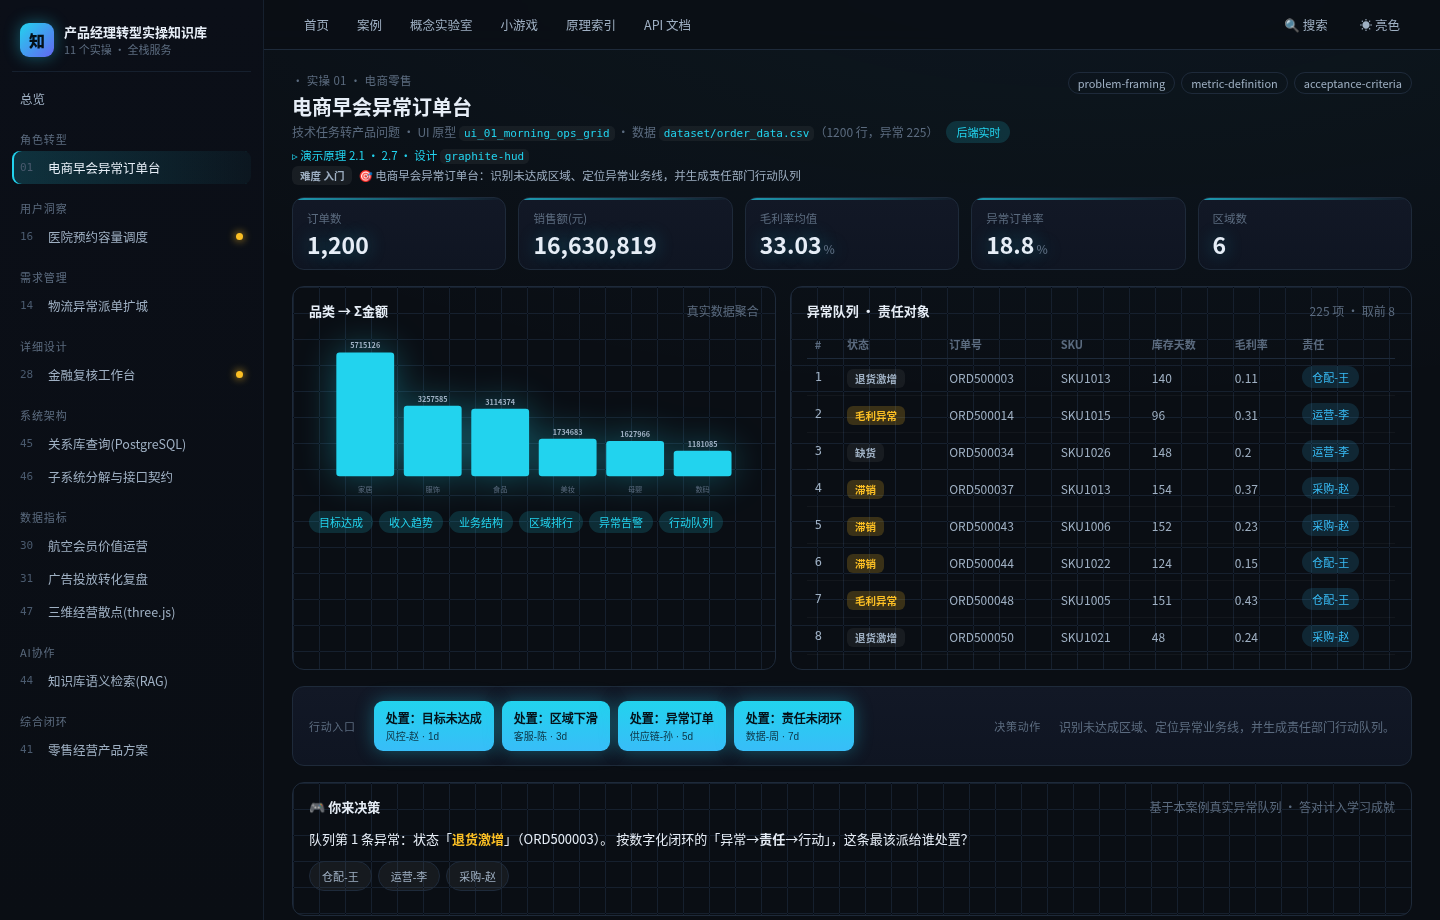
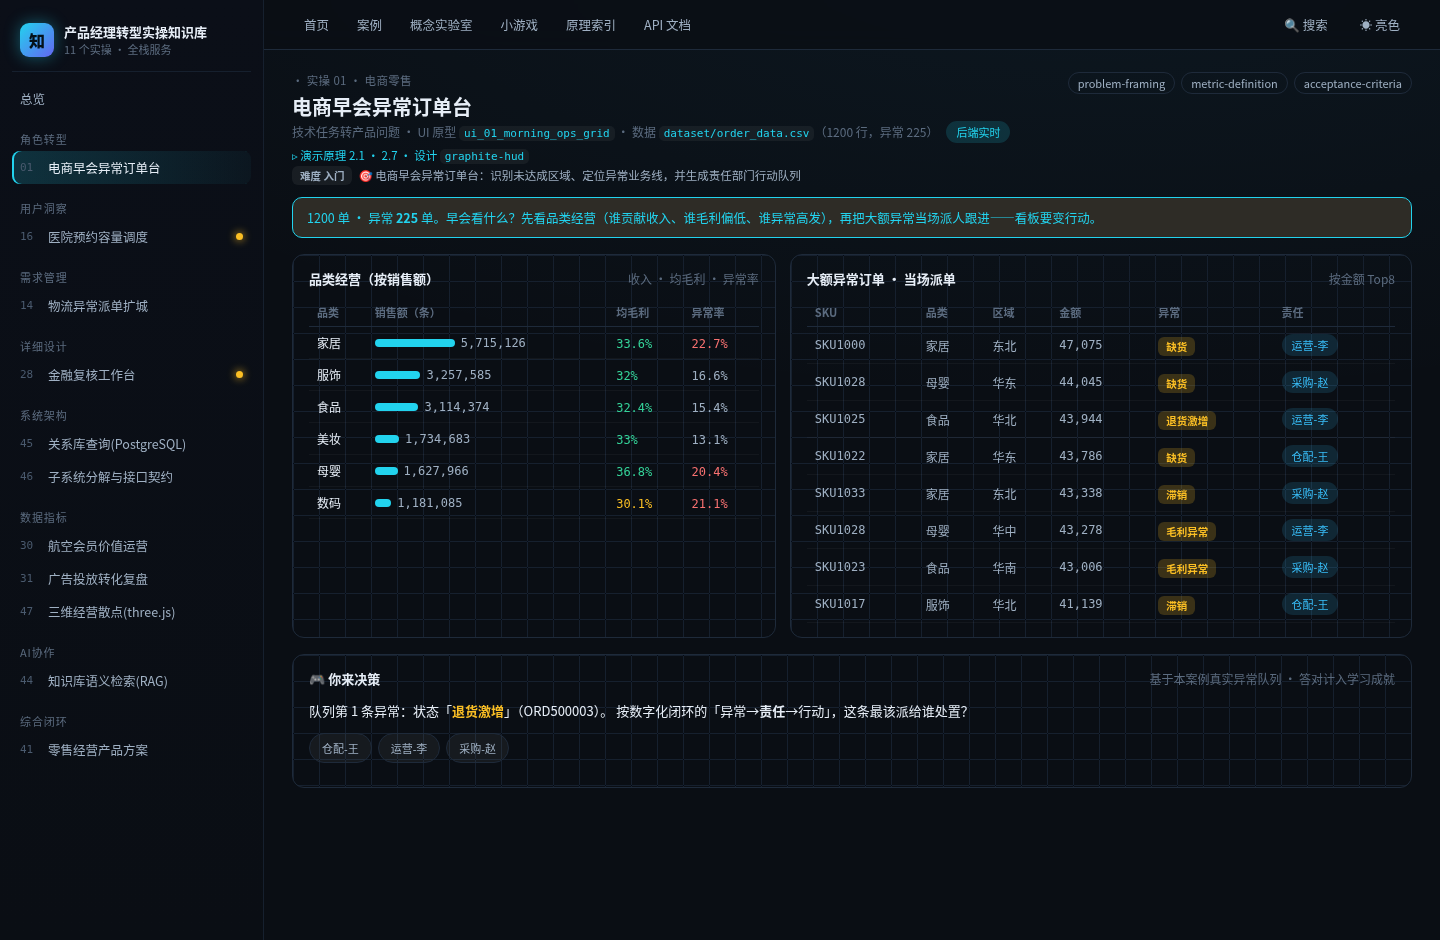
v7：案例01 零售早会经营专属 demo（第六个业务标杆）——10/11 案例专属
- 后端 /api/retail 按品类真算销售额/均毛利/异常率 + 大额异常订单 triage（按金额 Top8）。
- 前端 RetailScreen：品类经营表(收入条/毛利预警<32%/异常率>20%红)+大额异常当场派单表(SKU/品类/区域/金额/异常/责任人)；banner「看板变行动」。
- case01 screen=retail；测试+守卫。10/11 案例专属，仅综合闭环 41 用经营驾驶舱模板(该场景本就适合仪表盘)。三重检查全绿。

diff --git a/code/web/src/screens.tsx b/code/web/src/screens.tsx
@@ -1,5 +1,5 @@
 import { lazy, Suspense, useEffect, useMemo, useState } from 'react';
-import { fetchSearch, fetchDbQuery, fetchPoints3d, fetchHealth, fetchRfm, fetchHospital, fetchAdFunnel, fetchRiskReview, fetchDispatch } from './lib/api';
+import { fetchSearch, fetchDbQuery, fetchPoints3d, fetchHealth, fetchRfm, fetchHospital, fetchAdFunnel, fetchRiskReview, fetchDispatch, fetchRetail } from './lib/api';
 // three.js 独立 chunk，仅在渲染 3D 案例时动态加载（首屏不含 three）
 const Chart3D = lazy(() => import('./chart3d'));
 
@@ -314,12 +314,59 @@ function DispatchScreen() {
   );
 }
 
+// —— 零售早会经营专属 demo（案例01）：品类经营 + 异常订单 triage，早会即行动 ——
+function RetailScreen() {
+  const [d, setD] = useState<any>(null);
+  useEffect(() => { fetchRetail().then(setD); }, []);
+  if (!d) return <section className="card"><div className="muted">加载经营数据…</div></section>;
+  const maxRev = Math.max(...d.cats.map((x: any) => x.revenue), 1);
+  return (
+    <>
+      <div className="banner" style={{ color: 'var(--accent)', borderColor: 'var(--accent)' }}>{d.total} 单 · 异常 <b>{d.anomCount}</b> 单。早会看什么？先看品类经营（谁贡献收入、谁毛利偏低、谁异常高发），再把大额异常当场派人跟进——看板要变行动。</div>
+      <div className="cols">
+        <section className="card">
+          <div className="card-h"><h2>品类经营（按销售额）</h2><span className="muted">收入 · 均毛利 · 异常率</span></div>
+          <div className="tbl-wrap">
+            <table className="tbl">
+              <thead><tr><th>品类</th><th>销售额（条）</th><th>均毛利</th><th>异常率</th></tr></thead>
+              <tbody>
+                {d.cats.map((x: any) => (
+                  <tr key={x.name}>
+                    <td style={{ color: 'var(--ink)' }}>{x.name}</td>
+                    <td><div style={{ display: 'flex', alignItems: 'center', gap: 6 }}><div style={{ width: `${(x.revenue / maxRev) * 80}px`, height: 8, background: 'var(--accent)', borderRadius: 4 }} /><span className="mono">{x.revenue.toLocaleString('zh-CN')}</span></div></td>
+                    <td><span className="mono" style={{ color: x.avgMargin < 32 ? 'var(--warn)' : 'var(--ok)' }}>{x.avgMargin}%</span></td>
+                    <td><span className="mono" style={{ color: x.anomRate > 20 ? 'var(--bad)' : 'var(--ink2)' }}>{x.anomRate}%</span></td>
+                  </tr>
+                ))}
+              </tbody>
+            </table>
+          </div>
+        </section>
+        <section className="card">
+          <div className="card-h"><h2>大额异常订单 · 当场派单</h2><span className="muted">按金额 Top8</span></div>
+          <div className="tbl-wrap">
+            <table className="tbl">
+              <thead><tr><th>SKU</th><th>品类</th><th>区域</th><th>金额</th><th>异常</th><th>责任</th></tr></thead>
+              <tbody>
+                {d.triage.map((t: any, i: number) => (
+                  <tr key={i}><td className="mono cell">{t.sku}</td><td>{t.cat}</td><td>{t.region}</td><td className="mono">{Math.round(t.amt).toLocaleString('zh-CN')}</td><td><span className="badge warn">{t.reason}</span></td><td><span className="chip owner">{t.resp || '—'}</span></td></tr>
+                ))}
+              </tbody>
+            </table>
+          </div>
+        </section>
+      </div>
+    </>
+  );
+}
+
 export function SpecialScreen({ screen }: { screen: string }) {
   if (screen === 'rfm') return <RfmScreen />;
   if (screen === 'capacity') return <HospitalScreen />;
   if (screen === 'adfunnel') return <AdFunnelScreen />;
   if (screen === 'riskreview') return <RiskScreen />;
   if (screen === 'dispatch') return <DispatchScreen />;
+  if (screen === 'retail') return <RetailScreen />;
   if (screen === 'rag') return <RagScreen />;
   if (screen === 'db') return <DbScreen />;
   if (screen === 'arch') return <ArchScreen />;

diff --git a/code/server/services/cases.ts b/code/server/services/cases.ts
@@ -120,3 +120,16 @@ export function dispatch() {
   const total = rows.length, lateRate = Math.round(rows.filter((r) => (Number(r[actual]) || 0) > (Number(r[plan]) || 0)).length / total * 1000) / 10;
   return { total, lateRate, cities, anomalies };
 }
+
+/** 零售经营真实分析（案例01 专属 demo）：品类销售额/毛利率/异常率 + 异常订单 triage（按金额）。 */
+export function retail() {
+  const t = parseCsv(join(ROOT, 'dataset', 'order_data.csv'));
+  const ci = (n: string) => t.head.indexOf(n);
+  const [cat, region, amt, margin, anom, resp, sku] = ['品类', '区域', '金额', '毛利率', '异常原因', '责任人', 'SKU'].map(ci);
+  const rows = t.rows;
+  const cm: Record<string, { amt: number; margin: number; n: number; anom: number }> = {};
+  for (const r of rows) { const k = r[cat] || '—'; (cm[k] ||= { amt: 0, margin: 0, n: 0, anom: 0 }); const m = cm[k]; m.amt += Number(r[amt]) || 0; m.margin += Number(r[margin]) || 0; m.n++; if ((r[anom] || '').trim()) m.anom++; }
+  const cats = Object.entries(cm).map(([name, m]) => { let mg = m.margin / m.n; if (mg <= 1) mg *= 100; return { name, revenue: Math.round(m.amt), avgMargin: Math.round(mg * 10) / 10, anomRate: Math.round(m.anom / m.n * 1000) / 10 }; }).sort((a, b) => b.revenue - a.revenue);
+  const triage = rows.filter((r) => (r[anom] || '').trim()).map((r) => ({ sku: r[sku], cat: r[cat], region: r[region], amt: Number(r[amt]) || 0, reason: r[anom], resp: r[resp] })).sort((a, b) => b.amt - a.amt).slice(0, 8);
+  return { total: rows.length, anomCount: rows.filter((r) => (r[anom] || '').trim()).length, cats, triage };
+}

diff --git a/code/server/routes/api.ts b/code/server/routes/api.ts
@@ -1,5 +1,5 @@
 import { join } from 'node:path';
-import { listCases, caseData, getIndex, points3d, rfm, hospital, adFunnel, riskReview, dispatch } from '../services/cases.ts';
+import { listCases, caseData, getIndex, points3d, rfm, hospital, adFunnel, riskReview, dispatch, retail } from '../services/cases.ts';
 import { tokenize } from '../services/tokenize.ts';
 import { openapiSpec } from '../services/openapi.ts';
 import { VectorStore } from '../vector/store.ts';
@@ -26,6 +26,7 @@ export async function apiRoutes(app: any) {
   app.get('/api/adfunnel', async () => adFunnel());
   app.get('/api/riskreview', async () => riskReview());
   app.get('/api/dispatch', async () => dispatch());
+  app.get('/api/retail', async () => retail());
   app.get('/api/tokenize', async (req: any) => tokenize(String(req.query.text ?? '你好，今天天气怎么样？Hello AI Agent 2026')));
   app.get('/api/openapi.json', async () => openapiSpec());
   app.get('/api/search', async (req: any) => {

diff --git a/code/server/tests/api.test.ts b/code/server/tests/api.test.ts
@@ -8,6 +8,8 @@ test('后端 API 全绿', async () => {
   assert.equal(h.statusCode, 200); assert.equal(h.json().ok, true);
   const cs = await app.inject({ url: '/api/cases' });
   assert.ok(Array.isArray(cs.json()) && cs.json().length >= 10, '案例列表 >= 10（精品集）');
+  const rt = await app.inject({ url: '/api/retail' });
+  assert.ok(rt.json().cats.length >= 3 && rt.json().triage.length >= 1, '零售经营');
   const ds = await app.inject({ url: '/api/dispatch' });
   assert.ok(ds.json().cities.length >= 2 && ds.json().anomalies.length >= 1, '物流派单调度');
   const rk = await app.inject({ url: '/api/riskreview' });

diff --git a/code/web/src/lib/api.ts b/code/web/src/lib/api.ts
@@ -27,3 +27,5 @@ export const fetchAdFunnel = () => getJson<any>('/api/adfunnel');
 export const fetchRiskReview = () => getJson<any>('/api/riskreview');
 
 export const fetchDispatch = () => getJson<any>('/api/dispatch');
+
+export const fetchRetail = () => getJson<any>('/api/retail');